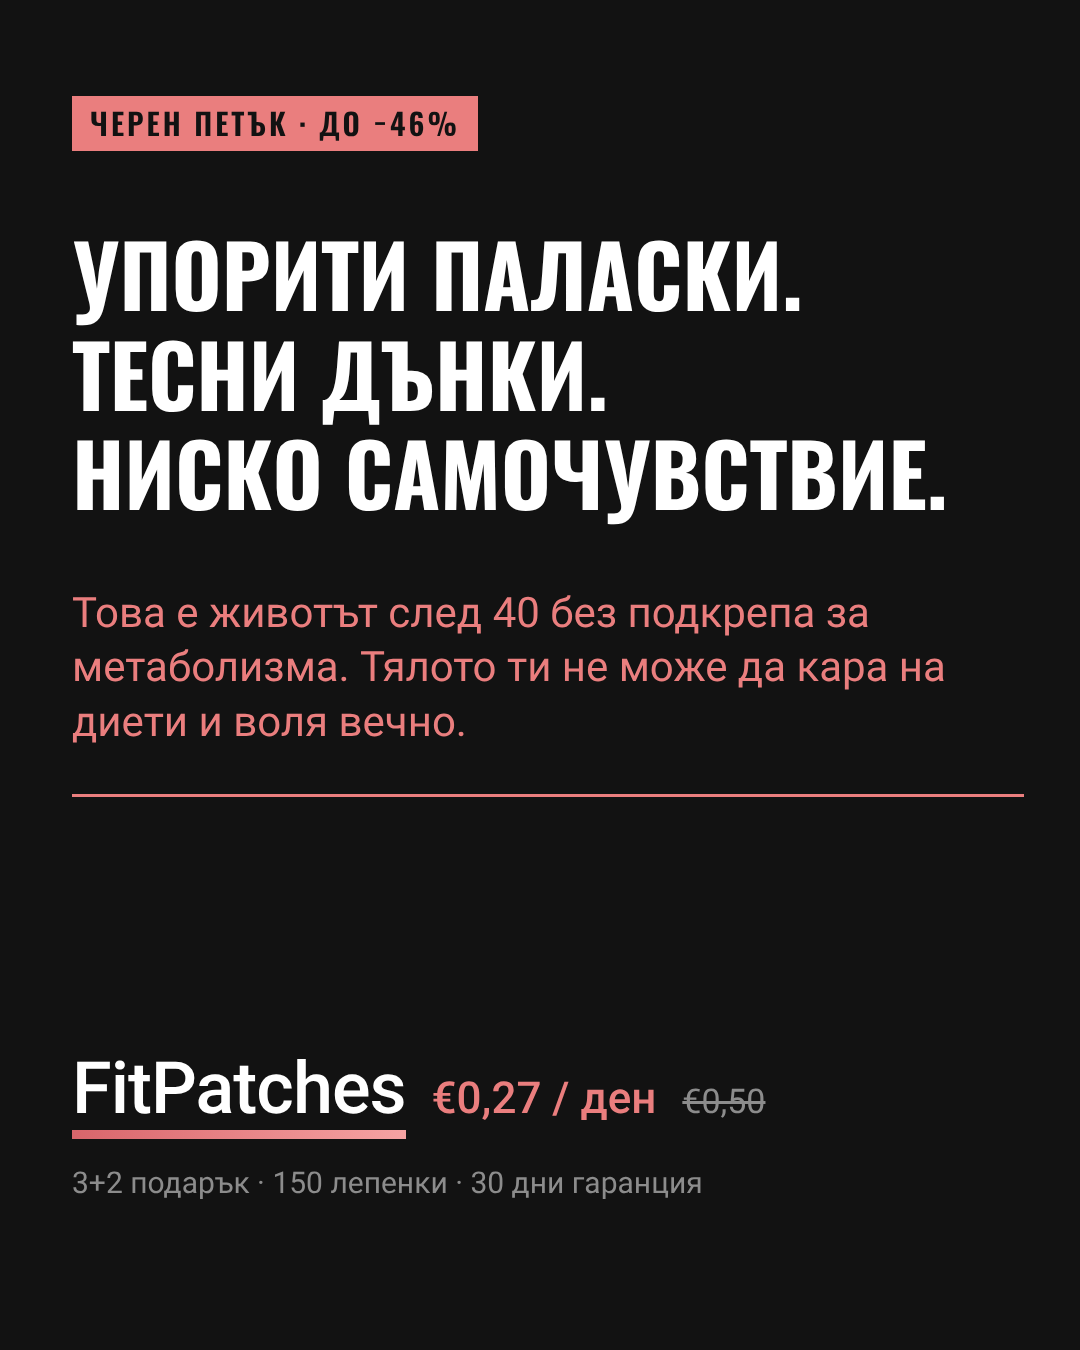
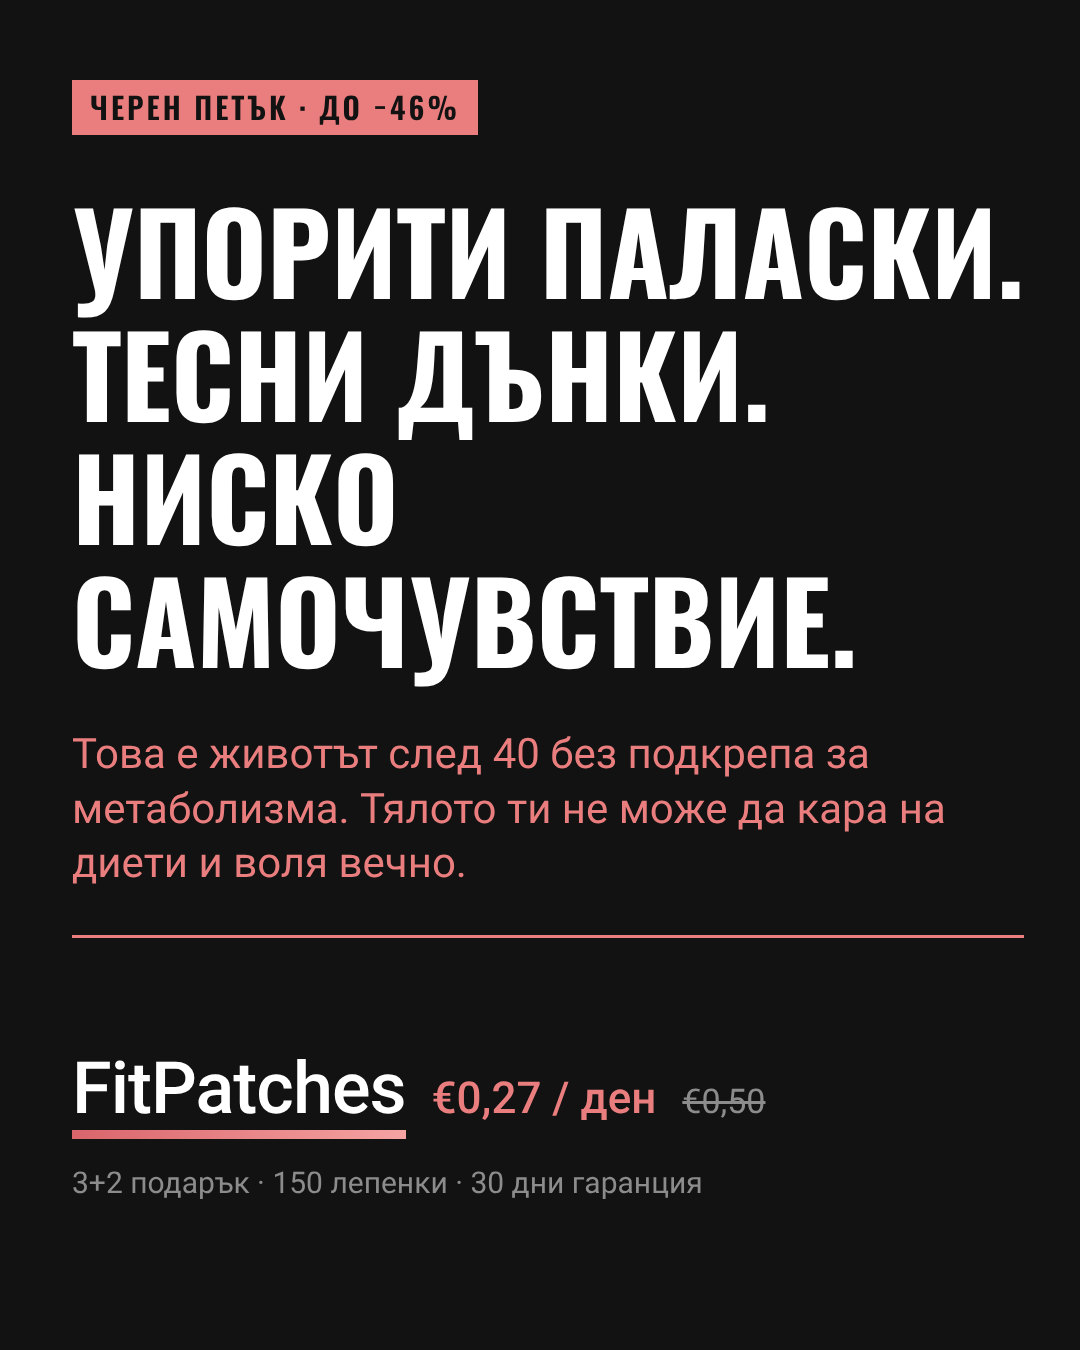
Ad 2: larger headline on four lines
Claude-Session: https://claude.ai/code/session_015eS5bvrvuy1hCfQrMMuavd

Changed region(s): [[0.0611, 0.1556, 0.9472, 0.6533], [0.0611, 0.0622, 0.4583, 0.1244]]

diff --git a/black-friday/02-tri-dumi/ad.html b/black-friday/02-tri-dumi/ad.html
@@ -23,7 +23,7 @@
   }
   .ad {
     display: flex; flex-direction: column;
-    padding: 96px 56px 0 var(--pad);
+    padding: 80px 56px 0 var(--pad);
   }
   .tag {
     align-self: flex-start;
@@ -33,13 +33,13 @@
     padding: 12px 18px 13px;
   }
   h1 {
-    margin-top: 72px;
+    margin-top: 52px;
     font-family: 'Oswald', sans-serif; font-weight: 700;
-    font-size: 138px; line-height: 1.16; letter-spacing: 0;
+    font-size: 138px; line-height: 1.1; letter-spacing: 0;
     text-transform: uppercase; white-space: nowrap;
   }
   .sub {
-    margin-top: 64px; width: 880px;
+    margin-top: 48px; width: 880px;
     font-family: 'Roboto', sans-serif; font-weight: 400;
     font-size: 42px; line-height: 1.3; color: var(--accent);
   }
@@ -78,7 +78,7 @@
 <body>
   <div class="ad">
     <div class="tag">ЧЕРЕН ПЕТЪК · ДО −46%</div>
-    <h1>Упорити паласки.<br>Тесни дънки.<br>Ниско самочувствие.</h1>
+    <h1>Упорити паласки.<br>Тесни дънки.<br>Ниско<br>самочувствие.</h1>
     <p class="sub">Това е животът след 40 без подкрепа за метаболизма. Тялото ти не може да кара на диети и воля вечно.</p>
     <div class="rule"></div>
     <div class="brand">
@@ -89,10 +89,10 @@
     <p class="fine">3+2 подарък · 150 лепенки · 30 дни гаранция</p>
   </div>
   <script>
-    // Fit the headline so its widest line spans ~92% of the content width.
+    // Fit the headline so its widest line spans the full content width.
     document.fonts.ready.then(() => {
       const h = document.querySelector('h1');
-      const max = 0.92 * (1080 - 72 - 56);
+      const max = 1080 - 72 - 56;
       const size = parseFloat(getComputedStyle(h).fontSize);
       h.style.fontSize = (size * max / h.scrollWidth) + 'px';
       document.body.dataset.ready = '1';
